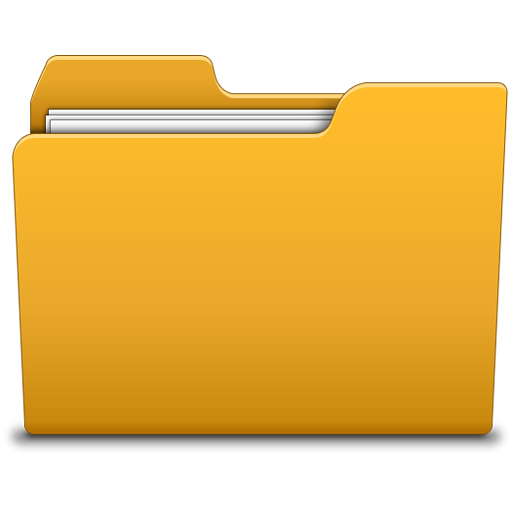
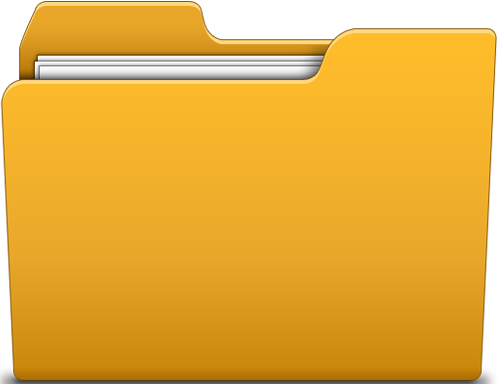
wip: save current state
on branch main

changes to be submitted:
    modified:   public/data/albums.json
    modified:   public/data/images.json
    modified:   public/images/folder.png
    modified:   src/App.tsx
    new file:   src/components/AlbumItem.tsx
    new file:   src/components/ImageItem.tsx
    modified:   src/hooks/useImages.ts
    deleted:    src/pages/AlbumItem.tsx
    new file:   src/pages/ImagesFolder.tsx
    deleted:    src/pages/ImagesHome.tsx
    new file:   src/pages/SlugImages.tsx
    modified:   src/routes/MainRoutes.tsx
    modified:   src/types/Images.ts

diff --git a/src/components/ImageItem.tsx b/src/components/ImageItem.tsx
@@ -1,0 +1,27 @@
+import { Link } from "react-router-dom"
+import { Image } from "../types/Images"
+
+type Props = {
+    item: Image
+}
+
+export const ImageItem = ({item}:Props) => {
+   
+    return (
+        <>
+            <li key={item.id} className="cursor-pointer flex flex-col mb-4 w-20">
+                <Link key={item.id} to={`${item.name}`} className="w-fit group relative hover:rounded-md">
+                    <img 
+                        src={item.url} 
+                        alt={`photo-${item.url}`} 
+                        className="w-full h-auto object-cover rounded-lg shadow-md transition-transform transform group-hover:scale-105"
+                    />
+                    <div className="absolute inset-0 bg-black bg-opacity-20 opacity-0 group-hover:opacity-100 rounded-lg group-hover:scale-105 flex items-center justify-center transition-transform">
+                        <span className="text-white text-sm font-semibold">View Image</span>
+                    </div>
+                </Link>
+                <div className="text-sm">{item.name}</div>
+            </li>
+        </>
+    )
+}

diff --git a/src/pages/SlugImages.tsx b/src/pages/SlugImages.tsx
@@ -1,0 +1,40 @@
+import { useParams } from "react-router-dom";
+import { useImages } from "../hooks/useImages";
+import { ImageItem } from "../components/ImageItem";
+
+export const SlugImages = () => {
+    const { albums, imagesNoFolder } = useImages();
+    const params = useParams();
+    const slug = params.slug;
+
+    if (!slug) return;
+
+    const album = albums?.find((album)=> {
+        if(slug && album.title.toLowerCase() === slug) {
+            return album;
+        }
+    })
+
+    const image = imagesNoFolder?.find((image)=> {
+        if(slug && image.name.toLowerCase() === slug) {
+            return image;
+        }
+    })
+
+    if (album?.photos.length === 0) {
+        return <p className="text-center text-lg">No files to show.</p>;
+    }
+
+    return (
+        <div className="w-full">
+            <ul className="flex flex-wrap gap-6">
+                {album?.photos.map((item) => (
+                    <ImageItem item={item}/>
+                ))}
+                {image &&
+                    <ImageItem item={image}/>
+                }
+            </ul>
+        </div>
+    );
+};

diff --git a/src/App.tsx b/src/App.tsx
@@ -29,7 +29,7 @@ function App() {
 						</button>
 					</div>
 					<div className="rounded-full justify-center items-center">
-						<button type="button" title="next" onClick={nextRoute} disabled={!hasNext} className="bg-white/40 p-2 flex justify-center items-center">
+						<button type="button" title="next" onClick={nextRoute} disabled={!hasNext} className="bg-white/40 p-2 flex justify-center items-center disabled:bg-black/20">
 							<img src="/images/arrow.png" alt="" className="w-2 rotate-180"/>
 						</button>
 					</div>
@@ -45,7 +45,7 @@ function App() {
 			<main className="flex min-h-screen w-full bg-white p-4">
 				<MainRoutes />
 			</main>
-			<iframe title="ads" className="flex fixed bottom-0 h-12 w-full text-center py-4 shadow-inner">
+			<iframe title="ads" className="flex absolute rigtht-0 bottom-0 h-12 w-full text-center py-4 shadow-inner z-0">
 			</iframe>
 		</div>
 	);

diff --git a/src/pages/ImagesFolder.tsx b/src/pages/ImagesFolder.tsx
@@ -1,0 +1,25 @@
+"use client";
+
+import { useImages } from "../hooks/useImages";
+import { ImageItem } from "../components/ImageItem";
+import { AlbumItem } from "../components/AlbumItem";
+
+export const ImagesFolder = () => {
+    const { error, albums, imagesNoFolder, loading } = useImages();
+
+    if (error) return <p>Loading error: {error}</p>;
+    if(loading) return <div>loading...</div>
+
+    return (
+        <div className="w-full">
+            <ul className="flex w-full flex-wrap gap-5 items-start">
+                {albums?.map((item) => (
+                    <AlbumItem item={item}/>
+                ))}
+                {imagesNoFolder?.map((item) => (
+                    <ImageItem item={item}/>
+                ))}
+            </ul> 
+        </div>
+    );
+};

diff --git a/src/routes/MainRoutes.tsx b/src/routes/MainRoutes.tsx
@@ -1,14 +1,14 @@
 import { useRoutes } from "react-router-dom";
 import { Home } from "../pages/Home";
 import { NotFound } from "../pages/NotFound";
-import { AlbumItem } from "../pages/AlbumItem";
-import { ImagesHome } from "../pages/ImagesHome";
+import { SlugImages } from "../pages/SlugImages";
+import { ImagesFolder } from "../pages/ImagesFolder";
 
 // eslint-disable-next-line react-refresh/only-export-components
 export const routesArray = [
     {path:'/', element: <Home/>},
-    {path:'/images', element:<ImagesHome/>},
-    {path:'/images/:slug', element:<AlbumItem/>},
+    {path:'/images', element:<ImagesFolder/>},
+    {path:'/images/:slug', element:<SlugImages/>},
     {path:"*", element:<NotFound/>}
 ]
 

diff --git a/src/components/AlbumItem.tsx b/src/components/AlbumItem.tsx
@@ -1,0 +1,17 @@
+import { Link } from "react-router-dom"
+import { Album } from "../types/Images"
+
+type Props = {
+    item:Album
+}
+
+export const AlbumItem = ({item}:Props) => {
+    return (
+        <li className="flex flex-col transition-all mb-4 w-20">
+            <Link key={item.id} to={`${item.title.replace(/\s/g, '').toLowerCase()}`} className="w-fit">
+                <img src="/images/folder.png" alt="" className="w-full"/>
+            </Link>
+            <span className="text-xs font-medium">{item.title}</span>
+        </li>
+    )
+}

diff --git a/src/hooks/useImages.ts b/src/hooks/useImages.ts
@@ -29,8 +29,5 @@ export const useImages = () => {
         };
         fetchImages();
     }, []);
-
-    console.log(albums)
-    console.log(imagesNoFolder)
     return { albums, imagesNoFolder, loading, error };
 };

diff --git a/src/types/Images.ts b/src/types/Images.ts
@@ -1,5 +1,6 @@
 export type Image = {
     id: number,
+    name: string,
     url: string
 }
 
